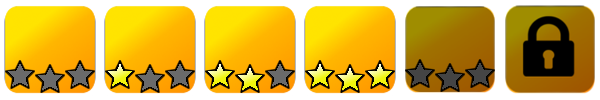
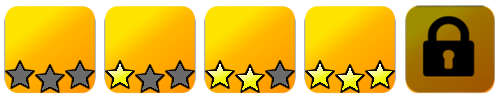
Fixed bug with getFrameIndex and we now only have 2 worlds

diff --git a/www/src/states/mapoverview.js b/www/src/states/mapoverview.js
@@ -14,13 +14,13 @@ RobotKompis.MapOverview = function (game) {
     
     this.tilemapKey = null; // The tilemap key from Preloader which matches the given level. 
     this.commandKeys = null; // The commands which are available on a certain level. 
-    this.character = 'switch'; //Setting a default value for character
+    this.character; //Setting a default value for character
     this.popup;
     this.popupGroup;
     this.closebutton;
 
     this.playerData = {};
-    this.robotFrame = 0;
+    this.robotFrame;
     this.robotData = {};
 
     this.currentWorld; // Vairabel for level select
@@ -42,7 +42,7 @@ RobotKompis.MapOverview = function (game) {
     this.starsArray = [0, 0, 0, 0, 0, 1, 1, 1, 1, 1, 1, 1, 1, 1, 1, 1, 1, 1, 1, 1];
 
     // Number of world pages. 
-    this.pages = 4; // this.starsArray.length/(this.buttonRows*this.buttonCols)
+    this.pages = 2; // this.starsArray.length/(this.buttonRows*this.buttonCols)
 
     // Group where to place all level buttons
     this.levelButtonsGroup;
@@ -71,7 +71,7 @@ RobotKompis.MapOverview.prototype = {
          */
         
         this.playerData = loadData();
-        if (typeof this.playerData !== "undefined" && this.playerData !== null && this.playerData.robot !== undefined) {
+        if (typeof this.playerData != "undefined" && this.playerData != null && this.playerData.robot != "") {
 
             this.character = this.playerData.robot;
             this.robotFrame = this.playerData.robotFrame;
@@ -87,6 +87,9 @@ RobotKompis.MapOverview.prototype = {
         // }
 
 
+        } else {
+            this.character = 'switch';
+            this.robotFrame = 0;
         }
         
     },
@@ -212,26 +215,24 @@ RobotKompis.MapOverview.prototype = {
                         var levelButton = this.add.button(offsetX+j*(this.buttonWidth+this.buttonSpacing),
                             offsetY+i*(this.buttonHeight+this.buttonSpacing), '' +
                             'levelSelect', this.buttonClicked, this);
-                        levelButton.frame = 5;
+                        levelButton.frame = 4;
                     }
                     else {
                         if (levelStars !== 0) {
                             var levelButton = this.add.button(offsetX+j*(this.buttonWidth+this.buttonSpacing),
                                 offsetY+i*(this.buttonHeight+this.buttonSpacing),
-                                'levelSelect', this.buttonClicked, this, null,
-                                this.playerData.levels[dictKey] , 4);
+                                'levelSelect', this.buttonClicked, this);
                             levelButton.frame = levelStars;
                         } else {
                             var levelButton = this.add.button(offsetX+j*(this.buttonWidth+this.buttonSpacing),
                                 offsetY+i*(this.buttonHeight+this.buttonSpacing),
-                                'levelSelect', this.buttonClicked, this, null, 0, 4);
+                                'levelSelect', this.buttonClicked, this);
                             levelButton.frame = 0;
                         }
                     }
 
                     
                     levelButton.levelNumber = levelNumber+1; // Custom attribute of the level button(its'number)
-                    console.log("Levelnumber", levelNumber+1)
 
                     // Adding the level button to the group
                     this.levelButtonsGroup.add(levelButton);
@@ -261,7 +262,7 @@ RobotKompis.MapOverview.prototype = {
      buttonClicked: function (button, pointer) {
 
          // Start correct level
-        if(button.frame < 5) {
+        if(button.frame < 4) {
 
             if (button.levelNumber == 1) {
                 this.startLevelOne();
@@ -359,7 +360,6 @@ RobotKompis.MapOverview.prototype = {
     // Functions connected to the level buttons for loading correct game states
     startLevelOne: function () {
         'use strict';
-
         this.state.states['Level'].tilemapKey = 'tilemap1'; // Start a variable in the 'Level' state, name it tilemapKey and assign it 'tilemap1'.
         this.state.states['Level'].commandKeys = ['walk_right_com', 'walk_left_com', 'ladder_com', 'key_com'];
         this.state.states['Level'].playerData = this.playerData;

diff --git a/www/src/states/preloader.js b/www/src/states/preloader.js
@@ -36,7 +36,7 @@ RobotKompis.Preloader.prototype = {
         this.load.image('titleScreen', '../../assets/startmenu/startBG600.png');
         
         // Map overview
-        this.load.spritesheet('levelSelect', '../../assets/mapoverview/select_levelNy.png', 100, 100, 6);
+        this.load.spritesheet('levelSelect', '../../assets/mapoverview/select_levelNy.png', 100, 100);
         this.load.image('settingsIcon', '../../assets/mapoverview/settingIcon.png');
         this.load.spritesheet('menuArrows', '../../assets/mapoverview/menypilar.png', 116, 168);
 

diff --git a/www/src/managers/progressmanager.js b/www/src/managers/progressmanager.js
@@ -1,6 +1,5 @@
 // Variable used as a key for localStorage
 var data = "DATA";
-console.log("Jag är för fan här....")
 /*
  *  Takes an object args and saves the data contained to localStorage
  */
